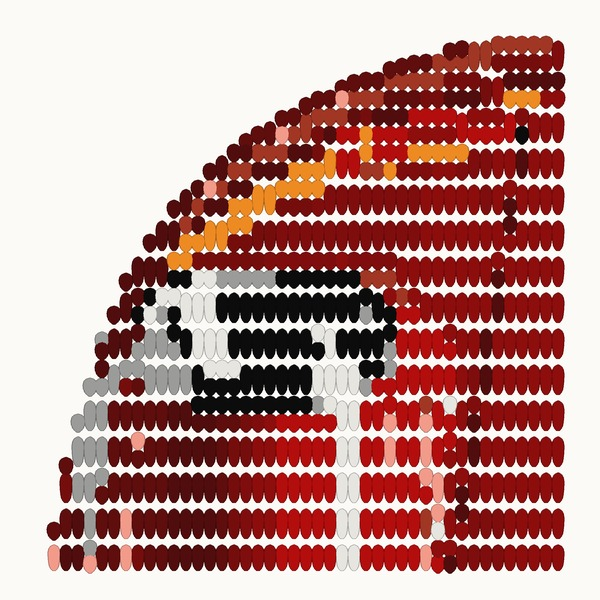
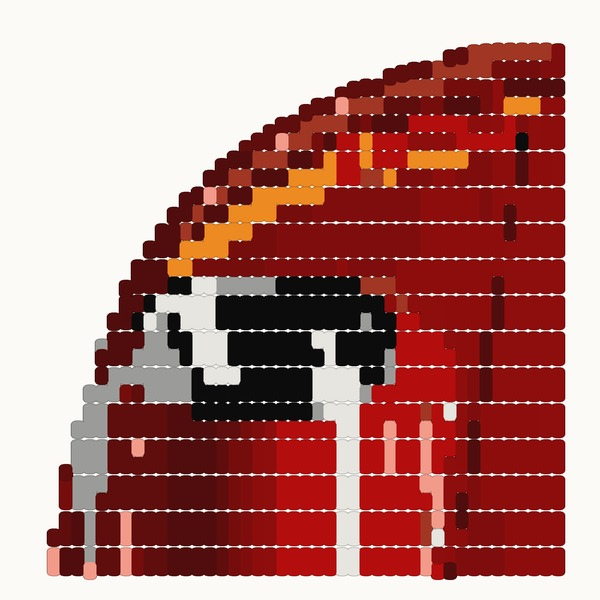
The nib's stones on the screen; the headlight being painted
The owner, 2026-11-24, the night: "my God, what precision … they are as FORM-G, only
now neat as mosaic stones, no more seeds … maybe trim the drops a little to the new
nib?". A card's nib: every drop a rounded rectangle 4.3 mm wide, the way's own length
plus the drop's top and tip (stoneOf); both headlight cards so. IMG_3499 … 3504, GPS
out; the film stays on this Mac.

Changed region(s): [[0.06, 0.06, 0.96, 0.99]]

diff --git a/app/src/goghplan.js b/app/src/goghplan.js
@@ -115,8 +115,21 @@ export const DROP = { top: 0.5, tip: 2, wide: 2.8, profile: [[0, 0], [0.05, 0.55
 export const SEED = { len: 7, wide: 3.5, profile: [[0, 0], [0.08, 0.6], [0.2, 0.88], [0.4, 1], [0.6, 0.95], [0.8, 0.72], [0.93, 0.4], [1, 0.1]] };
 export const DROP_UI = { top: [0, 5, 0.5], tip: [0, 25, 0.5] };   // the sliders, mm [min, max, step]
 export const dropTopOf = v => inRange(v ?? DROP.top, DROP_UI.top), dropTipOf = v => inRange(v ?? DROP.tip, DROP_UI.tip);
-// a dab's drop → its outline, [[x, y]] clockwise from its top; o: { gap, run, top, tip } — the sliders'; wide, a card's own brush (`dropWide`, est.)
+// The spatula nib's drop (the owner, 2026-11-24, the night: "maybe trim the drops a little to the new nib? They are as FORM-G, only now neat as mosaic stones, no
+// more seeds"; GOGH/IMG_3495, IMG_3504): a card's `nib` — a stone, a rounded rectangle NIB.wide across, its corners NIB.r, from the machine's way's start less
+// the drop's top to its end and the tip past it, the way its own (the RUN's, the stamps' seedJ3); est. by v.6 on canvas, a stamp ≈ 4.3 × 6 mm
+export const NIB = { wide: 4.3, r: 1.4 };
+function stoneOf(x, a, b, o) {
+  const seed = isSeed(a, b, o), [[, s], [, e]] = dabLeg(x, a, b, o), j = dabJ3(a, b, o) ?? (seed && Number.isFinite(o.seedJ3) ? { early: o.seedJ3, late: o.seedJ3 } : ELBOW_J3);
+  const top = s + j.early - dropTopOf(o.top), bot = e - j.late - dropTipOf(o.tip), P = Math.max(1, top - bot), half = (o.wide ?? NIB.wide) / 2, r = Math.min(NIB.r, half, P / 2);
+  const h = d => d < r ? half - r + Math.sqrt(Math.max(0, r * r - (r - d) ** 2)) : d > P - r ? half - r + Math.sqrt(Math.max(0, r * r - (d - P + r) ** 2)) : half;
+  const n = Math.max(12, Math.ceil(P / 0.25)), ds = [...new Set([...Array.from({ length: n + 1 }, (_, i) => P * i / n), ...Array.from({ length: 9 }, (_, i) => r * i / 8), ...Array.from({ length: 9 }, (_, i) => P - r * i / 8)])].filter(d => d >= 0 && d <= P).sort((p, q) => p - q);
+  const side = ds.map(d => [d, h(d)]);
+  return [...side.map(([d, w]) => [x + w, top - d]), ...side.reverse().map(([d, w]) => [x - w, top - d])];
+}
+// a dab's drop → its outline, [[x, y]] clockwise from its top; o.nib: the nib's stone; o: { gap, run, top, tip } — the sliders'; wide, a card's own brush (`dropWide`, est.)
 export function dropOf(x, a, b, o = {}) {
+  if (o.nib) return stoneOf(x, a, b, o);
   const run = isSeed(a, b, o) ? -3 : dabRunOf(o.run), [[, s], [, e]] = dabLeg(x, a, b, { ...o, run: 0, seed: 0 });
   const k = Math.min(1, Math.max(0, -run / 3)), base = o.wide ?? DROP.wide;                  // 0 at RUN 12 and over, 1 at RUN 6: the pill to the seed
   const pill = Math.max(1, (s + ELBOW_J3.early - dropTopOf(o.top)) - (e - ELBOW_J3.late - dropTipOf(o.tip) - 2 * run));

diff --git a/app/src/formg.js b/app/src/formg.js
@@ -743,7 +743,7 @@ const shade = (hex, f = 0.7) => '#' + [1, 3, 5].map(i => Math.round(parseInt(hex
 // (`drop: true`); a 3 or 5 mm brush's drop as wide again by its pitch (est.)
 function drawDrops(c, hair = false) {
   const tint = PIC.drop !== true, wide = PIC.dropWide ?? (PIC.pitch > 2 ? DROP_W * PIC.pitch / 2 : undefined);
-  const o = { gap: dabGap(), run: S.dabRun, top: S.dropTop, tip: S.dropTip, wide, seed: PIC.dab?.seed, seedJ3: PIC.dab?.seedJ3 }, lines = plan().map(P => {
+  const o = { gap: dabGap(), run: S.dabRun, top: S.dropTop, tip: S.dropTip, wide, seed: PIC.dab?.seed, seedJ3: PIC.dab?.seedJ3, nib: PIC.nib }, lines = plan().map(P => {
     const path = new Path2D(), legs = ownLegs(P), hex = jarOf(P.pencil).hex, oj = { ...o, allSeeds: !!jarOf(P.pencil)?.seeds };
     for (const [x, t, b] of legs) dropOf(x, t, b, oj).forEach(([u, v], i) => i ? path.lineTo(sx(u), sy(v)) : path.moveTo(sx(u), sy(v)));
     return { path, master: masterPath(legs), a: veil(P), line: tint ? shade(hex) : DROP_LINE, fill: tint ? hex : DROP_FILL };
@@ -970,7 +970,7 @@ function brushUndo() {
 function cardJpg(pic) {
   const k = 600 / Math.max(pic.w, pic.h), c = document.createElement('canvas'); c.width = Math.round(pic.w * k); c.height = Math.round(pic.h * k);
   const g = c.getContext('2d'); g.fillStyle = GESSO; g.fillRect(0, 0, c.width, c.height); g.lineJoin = 'round'; g.lineWidth = 1.6;
-  const o = { gap: pic.look?.gap ?? 0.2, run: 0, seed: pic.dab?.seed, seedJ3: pic.dab?.seedJ3, wide: pic.dropWide };
+  const o = { gap: pic.look?.gap ?? 0.2, run: 0, seed: pic.dab?.seed, seedJ3: pic.dab?.seedJ3, wide: pic.dropWide, nib: pic.nib, top: pic.preset?.top, tip: pic.preset?.tip };
   const paths = seqOf(pic).map(j => { const p = new Path2D(), oj = { ...o, allSeeds: !!j.seeds }; for (const q of j.cells) for (const [x, a, b] of q.legs) dropOf(x, a, b, oj).forEach(([u, v], i) => i ? p.lineTo(u * k, (pic.h - v) * k) : p.moveTo(u * k, (pic.h - v) * k)); return { p, hex: j.hex }; });
   for (const { p, hex } of paths) { g.strokeStyle = shade(hex); g.stroke(p); }
   for (const { p, hex } of paths) { g.fillStyle = hex; g.fill(p); }

diff --git a/app/test/goghplan.test.js b/app/test/goghplan.test.js
@@ -449,3 +449,15 @@ test('the headlight v.2: his 13 jars as he set them by 🔄, a line each a layer
   assert.ok(xs.slice(1).every((x, i) => Math.abs(x - xs[i] - 4) < 1e-6), 'columns 4 mm apart');
   assert.ok(pic.jars.every(j => j.stamp) && pic.preset.run === -1);
 });
+
+// the nib's stone (the owner, 2026-11-24, the night: "trim the drops a little to the new nib … neat as mosaic stones"): a rounded rectangle 4.3 mm wide, the way's own
+test('the nib\'s stone: 4.3 mm wide, a stamp 5.7 mm (v.6 on canvas ≈ 6), a leg the way + 1.5 at the preset\'s top 0.5 and tip 2; square sides, round corners', async () => {
+  const { dropOf, NIB } = await import('../src/goghplan.js');
+  const ys = q => q.map(p => p[1]), xs = q => q.map(p => p[0]), len = q => Math.max(...ys(q)) - Math.min(...ys(q));
+  const o = { gap: 0.2, seed: 6, seedJ3: 2, nib: true, wide: NIB.wide, top: 0.5, tip: 2 };
+  const st = dropOf(50, 106, 100, { ...o, run: 0 }), lg = dropOf(50, 112, 100, { ...o, run: 0 }), l10 = dropOf(50, 112, 100, { ...o, run: -1 });
+  assert.ok(Math.abs(len(st) - 5.7) < 1e-6 && Math.abs(len(lg) - 13.3) < 1e-6 && Math.abs(len(l10) - 11.3) < 1e-6, `${len(st)} ${len(lg)} ${len(l10)}`);
+  for (const q of [st, lg]) assert.ok(Math.abs(Math.max(...xs(q)) - Math.min(...xs(q)) - 4.3) < 1e-9, 'the width');
+  const mid = (Math.max(...ys(lg)) + Math.min(...ys(lg))) / 2, at = y => Math.max(...lg.filter(p => Math.abs(p[1] - y) < 0.15).map(p => p[0] - 50));
+  assert.ok(Math.abs(at(mid) - 2.15) < 1e-6 && at(Math.max(...ys(lg)) - 0.1) < 1.8, 'square in the middle, round at the corners');
+});

diff --git a/GOGH/README.md b/GOGH/README.md
@@ -139,6 +139,7 @@ shoulder's 0.6 … 0.7° misses: "I have one more suspect: the brush's thin hand
 | `IMG_3495.jpg`, `IMG_3496.jpg` | v.6 on the canvas's weave, a ruler under it: the nib's stamp ≈ 4.3 × 6 mm (the first lone one 8), a tooth, its head round; the patch 5 mm apart ≈ 0.7 mm of air between, in places touching (est.). Then: "shall we make a new picture for the headlight test?" — **`headlight-nib-20`**: for-LAB's crop x 300 … 760, y 130 … 590 px (the headlight, the indicator over it, the highlight under, the wing's edge), 178 mm on 20 × 20, in 1 and ½ for the nib — columns 5 mm, 12 mm cells, a leg or two stamps, every dab a stamp, the stamps' J3 2 + 2 (`dab.seedJ3`, the way 4.2), Layer 2 the stamps of C13, C14, C2, C1; preset RUN 10, GAP +0.2, BRUSH +0.8; 538 dabs, ≈ 54 min (est.). |
 | (the headlight's jars) | The owner, of its first colours: "random colours … we have this porsche and all my colours are named" — the red classic's 19 jars after its jar canon (Jar 1, 5, 7, 10, 13, 22, 23, 27, 29 … 36, 38, 43, Black and the orange): `headlight-nib-20` made again in them, by his physical jars' hexes (THE JARS' 🔄 list); the picture's orange, darker than his paint and by colour nearer Jar 13, painted by **Jar 6** wherever a third of a part is orange (hue over 45°, `led.py`'s orange jar), first in Layer 2 by its canon — "better rename Indicator to Jar 6, else in the bear it will be Indicator too". 532 dabs, 23 lines. |
 | `Screenshot 2026-11-23 at 11.46.07 PM.png` | The owner's: the headlight on GOGH with his 🔄 (Jar 27 → 29, Jar 32 and 35 → 34, Jar 36 → 38) and his brush (Jar 10, 13 gone): "make v.2 of the headlight and move the drops 1 mm — not changing the colours — there are 10-12 e.g. Jar 34; we do not need so many shades for the test"; "no, the other way, closer!"; "so that they are denser to each other". **`headlight-nib-20-v2`**: those 13 jars, a line each a layer (17 lines), columns 4 mm apart, 670 dabs; else as v.1. And a drop's profile read a hair past its end by rounding drew a 38 mm line across v.1's picture: clamped (`dropOf`). |
+| `IMG_3499.jpg` … `IMG_3502.jpg`, `IMG_3504.jpg` | The headlight v.2 being painted by the nib, 2026-11-24 after midnight, RUN 12 by the journal (the preset's 10 raised before the DRAG): Jar 1's highlights, Jar 5, Jar 7's greys, the reds of the wing's edge — every dab a neat stone, no tail (the owner: "my God, what precision … they are as FORM-G, only now neat as mosaic stones, no more seeds"; "not for nothing we have sat the third day: we began on Sunday, it is Tuesday already"). `Movie on 11-24-26 at 12.06 AM.mov`, 48 s, on this Mac alone. Then: "maybe trim the drops a little to the new nib?" — the screen's drop on a card with `nib` a stone (`NIB`, `stoneOf`): a rounded rectangle 4.3 mm wide, corners 1.4, the way's own length + the drop's top and tip (a stamp 5.7, a 12 mm leg 13.3 at RUN 12, est.); both headlights so. |
 
 ### The gummy bear's head in 1 and ½, two layers (2026-11-23, the evening)
 

diff --git a/CHANGELOG.md b/CHANGELOG.md
@@ -5,6 +5,10 @@ Machine measurements stay in RUBENS: `../Rubens/CALIBRATION.md`.
 
 ## Unreleased
 
+- **The nib's stones on the screen** (2026-11-24, the night; the owner, of the headlight being painted: "my God, what precision … neat as mosaic stones, no
+  more seeds … maybe trim the drops a little to the new nib?"). A card's `nib`: every drop a rounded rectangle 4.3 mm wide, the way's own length (`stoneOf`);
+  both headlight cards so. `GOGH/IMG_3499` … `3504`, GPS out. Tested.
+
 - **The headlight v.2: his 13 jars, a line each, columns 4 mm** (2026-11-23, the night; the owner: "not changing the colours … we do not need so many shades
   for the test"; "no, the other way, closer!"). `headlight-nib-20-v2` first in GOGH_LIB; his brush's edits of v.1 and the 4 mm porsche kept. A drop's profile
   clamped at its ends: a rounding hair past it drew a 38 mm wide line on a card's picture (`dropOf`). Tested.
